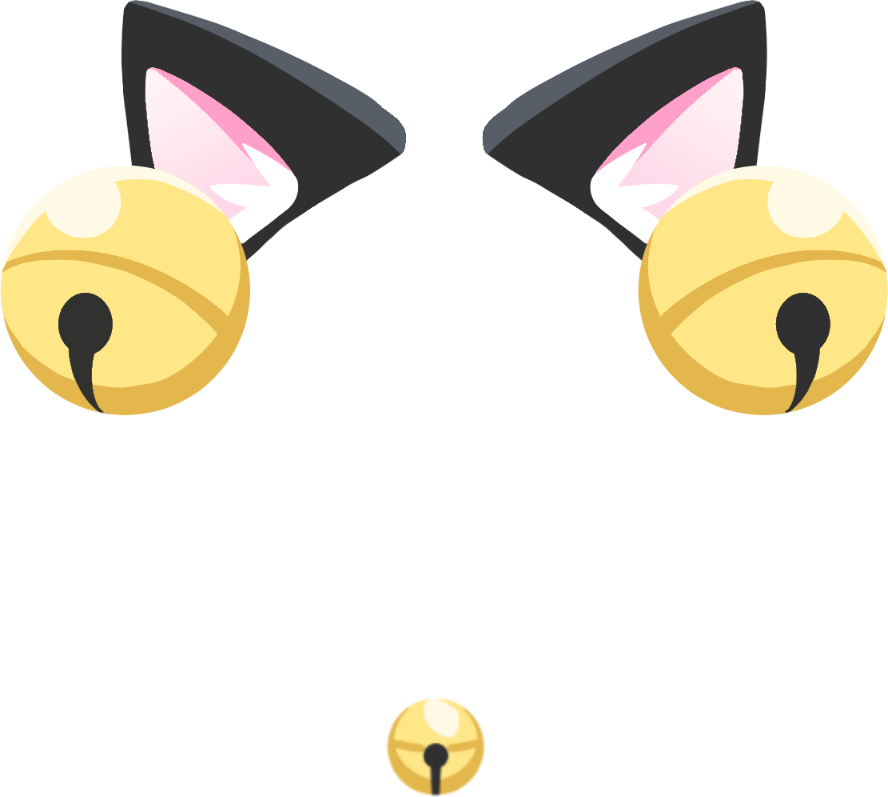
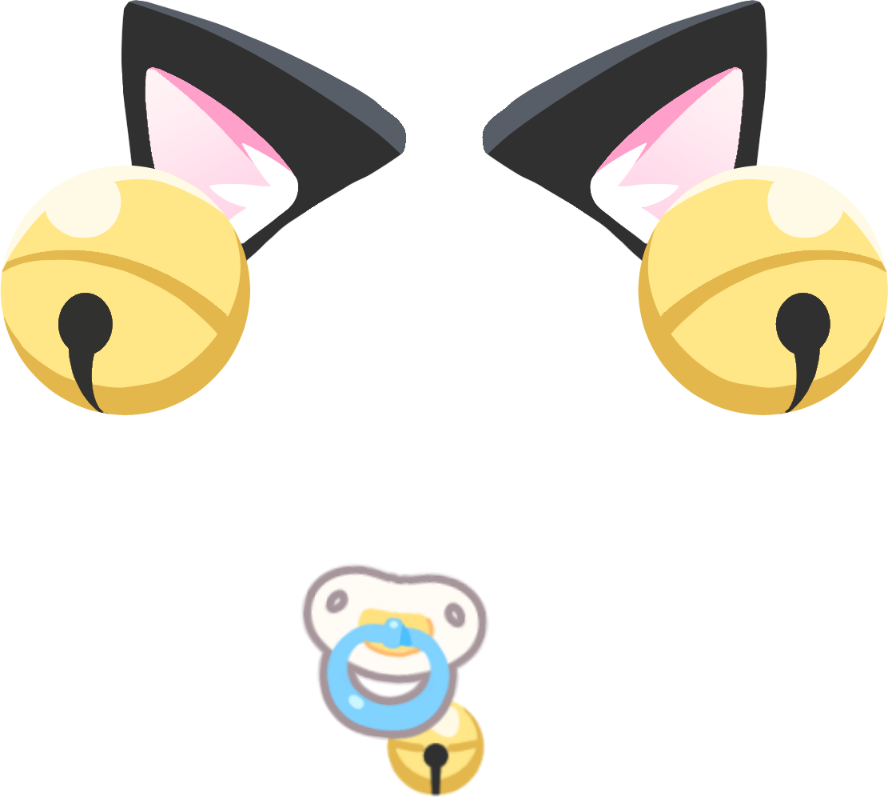
update v1787691690

Changed region(s): [[0.3345, 0.6926, 0.5473, 0.9335]]

diff --git a/mascot.py b/mascot.py
@@ -5534,6 +5534,10 @@ class Mascot:
         self._prop_back_cfg = {}     # 뽑힌 소품의 뒤쪽 조각 움직임 설정
         self._prop_bits = []         # 여러 조각짜리 소품의 곁조각 자리 이름
         self._prop_bit_cfg = {}      # 그 조각마다의 움직임 (지뢰 13)
+        self._prop_gname = ""        # 지금 소품의 이름 (고양이·만두…)
+        self._cat_open_until = 0.0   # 고양이가 눈을 뜨고 있는 시한
+        self._cat_open_next = 0.0    # 다음에 눈을 뜰 시각
+        self._cat_heart_next = 0.0   # 다음 하트가 나올 시각
         # ── 매끈한 캐릭터 (몸만 레이어 창으로) ───────────────────────────
         # **_load_parts 보다 먼저 정해야 한다.** 파츠를 읽으면서 몸 뒤
         # 파츠의 움직임 프레임을 미리 굽는데, 그 캐시에 PIL 을 담을지
@@ -6374,6 +6378,26 @@ class Mascot:
 
     PROP_BIT_MAX = 6         # 한 소품에 붙일 수 있는 곁조각 수
 
+    # 이름(gname)으로 주는 기본 움직임 — 열여덟 캐릭터의 config 를 일일이
+    # 고치지 않아도 새 소품이 살아 움직인다. config 의 prop_motion 이 있으면
+    # 그쪽이 이긴다 (캐릭터별 손맛).
+    #   고양이: prop=꼬리(살랑) · bit2=몸 · bit3=눈감은 얼굴(리듬 까닥) ·
+    #           bit4=눈뜬 얼굴(가만히 빤히 — 움직임 없음)
+    #   만두:   bit2=김(폴폴 오르며 옅어짐)
+    PROP_MOTION_DEF = {
+        "고양이": {
+            "prop": {"motion": "sway", "amp": 8.0, "period": 2.6,
+                     "jitter": 0.18, "pivot": [0.5, 0.9], "steps": 24},
+            "prop_bit3": {"motion": "sway", "amp": 3.6, "period": 1.35,
+                          "jitter": 0.08, "pivot": [0.5, 0.86],
+                          "steps": 20},
+        },
+        "만두": {
+            "prop_bit2": {"motion": "steam", "amp": 1.0, "period": 3.4,
+                          "jitter": 0.12, "rise": 1.1, "steps": 22},
+        },
+    }
+
     def _load_prop_bits(self, pick, s, pil_cache):
         """여러 조각으로 된 특별 소품 (사가 신하나의 미쿠).
 
@@ -6405,7 +6429,10 @@ class Mascot:
         # 다시 매기면 밀린다 (미쿠가 prop16 → prop17 이 됐다). 번호로도
         # 찾아 주므로 옛 config 도 그대로 돈다.
         tab9 = self.cfg.get("prop_motion") or {}
-        mo_all = tab9.get(ent.get("gname") or "") or tab9.get(pick) or {}
+        gname9 = str(ent.get("gname") or "")
+        self._prop_gname = gname9        # 그리는 쪽(고양이 눈)이 본다
+        mo_all = (tab9.get(gname9) or tab9.get(pick)
+                  or self.PROP_MOTION_DEF.get(gname9) or {})
         self._prop_bit_cfg["prop"] = mo_all.get("prop") or {}
         for j9, key9 in enumerate(keys):
             nm9 = "prop_bit%d" % (j9 + 2)
@@ -7478,6 +7505,34 @@ class Mascot:
             im = Image.new("RGBA", pil.size, (0, 0, 0, 0))
             im.alpha_composite(pil.resize((w, pil.height), Image.LANCZOS),
                                ((pil.width - w) // 2, 0))
+        elif mode == "steam":
+            # 김 — **제자리에서 위로 폴폴** 오르며 옅어졌다 다시 차오른다.
+            # 한 주기: 아래(진하게) → 위로 오르며 옅어짐 → 사라지고 다시.
+            # sin 이 아니라 톱니(주기 진행률)를 쓴다 — 김은 왕복하지 않는다.
+            t2 = (k / float(steps)) % 1.0
+            rise = pil.height * float(mo.get("rise", 0.9))
+            pad = int(math.ceil(rise)) + 2
+            # 처음엔 스르륵 나타나고(0→0.15) 끝에서 길게 사라진다
+            if t2 < 0.15:
+                a2 = t2 / 0.15
+            else:
+                a2 = max(0.0, 1.0 - (t2 - 0.15) / 0.85)
+            # 반투명 흰 김 (요청). 매끈 레이어에서는 알파 그대로 나오고,
+            # 색상키 경로에서는 키 색과 섞여 옅은 회색 김이 된다 — 김은
+            # 원래 회끄무레해 그 모습도 자연스럽다 (지뢰 65 의 얼룩과
+            # 달리 면적이 작고 늘 움직여 테로 보이지 않는다).
+            a2 *= 0.42 + 0.30 * (1.0 - t2)
+            fade = pil.copy()
+            fade.putalpha(fade.getchannel("A").point(
+                lambda v, m9=a2: int(v * m9)))
+            wob = math.sin(t2 * 2 * math.pi) * pil.width * 0.06
+            base = Image.new("RGBA",
+                             (pil.width + 2 * pad, pil.height + 2 * pad),
+                             (0, 0, 0, 0))
+            base.alpha_composite(fade,
+                                 (pad + int(round(wob)),
+                                  pad - int(round(rise * t2))))
+            im = base
         else:
             return None
         # 움직이는 조각이 넷이 되면서 12장 × 4 = 48장이라 상한 40 을 계속
@@ -12725,7 +12780,21 @@ class Mascot:
             hy = wy = round(h * 1.5)
             cloud = self._fx_cloud(hy)
 
+            # ③-2 작은 하트 — 고양이 소품 곁에 뿅뿅 (요청). 반 크기라
+            # 캐릭터 하트와 확실히 구분된다.
+            hs = round(h * 0.52)
+            whs = max(6, round(hs * 0.92))
+
+            def drawhs(d, c="#ff9fbc"):
+                r = whs * 0.26
+                d.ellipse([0, hs * 0.14, 2 * r, hs * 0.14 + 2 * r], fill=c)
+                d.ellipse([whs - 2 * r, hs * 0.14, whs, hs * 0.14 + 2 * r],
+                          fill=c)
+                d.polygon([(1, hs * 0.34), (whs - 1, hs * 0.34),
+                           (whs / 2, hs * 0.97)], fill=c)
+
             groups = {"note": notes, "heart": [(wh, drawh)],
+                      "heart_s": [(whs, drawhs, hs)],
                       "yawn": [(wy, cloud, hy)],
                       "sweat": [(ws, draws)], "question": [(wq, drawq)],
                       "spark": [(wk, drawk)], "bang": [(wb, drawb)]}
@@ -18116,8 +18185,27 @@ class Mascot:
         차례와 움직임은 얼굴 차례에서 하던 것과 똑같이 한다.
         """
         now9 = time.time()
+        # 고양이 소품 — 눈감은 얼굴(bit3)이 기본, 가끔 눈을 뜨고(bit4)
+        # 빤히 바라본다 (요청). 두 얼굴은 같은 자리라 하나만 그린다.
+        skip9 = None
+        if self._prop_gname == "고양이" and self.has.get("prop_bit4"):
+            if now9 < self._cat_open_until:
+                skip9 = "prop_bit3"          # 눈 뜸 — 가만히 응시
+            else:
+                skip9 = "prop_bit4"
+                if not self._cat_open_next:      # 켠 직후 — 예약만
+                    self._cat_open_next = now9 + random.uniform(8.0, 18.0)
+                elif now9 >= self._cat_open_next:
+                    self._cat_open_until = now9 + random.uniform(3.0, 5.5)
+                    self._cat_open_next = (self._cat_open_until
+                                           + random.uniform(14.0, 30.0))
+                # 눈을 감고 있는 동안 반투명 작은 하트가 뿅뿅 (요청)
+                if now9 >= self._cat_heart_next:
+                    self._cat_heart_next = now9 + random.uniform(1.4, 2.4)
+                    self._safe("cat_heart", self._cat_heart, now9, yo)
         for name in (self.layout.get("overlays") or []):
-            if not name.startswith("prop") or not self.has.get(name):
+            if (not name.startswith("prop") or not self.has.get(name)
+                    or name == skip9):
                 continue
             mo9 = (getattr(self, "_prop_bit_cfg", None) or {}).get(name)
             if mo9 and mo9.get("motion"):
@@ -18125,6 +18213,47 @@ class Mascot:
                 continue
             ox, oy_ = self._pos(name)
             self._put(name, ox, oy_ + yo)
+
+    def _cat_heart(self, now, yo):
+        """고양이 소품 곁에서 뿅 하고 오르는 작은 하트.
+
+        기존 하트 파티클(_spawn_note 의 heart)을 그대로 쓰되, 자리만
+        고양이(몸 조각) 위로 잡는다 — FxLayer 가 있으면 부드럽게 옅어지고
+        (반투명, 요청) 없으면 픽셀 솎기로 물러난다 (기존과 같은 길).
+        """
+        lvs = (self.fx_imgs.get("heart_s") or self.fx_imgs.get("heart")
+               or self.fx_imgs.get("note"))
+        if not lvs:
+            return
+        body9 = ("prop_bit2" if self.has.get("prop_bit2") else "prop")
+        try:
+            bx9, by9 = self._pos(body9)
+            ent9 = self.layout.get(body9) or {}
+            sz9 = ent9.get("size") or [40, 40]
+            w9 = float(sz9[0]) * self.s
+            h9 = float(sz9[1]) * self.s
+        except Exception:
+            return
+        # **주변을 번갈아** — 왼쪽·오른쪽·위를 돌아가며, 한 번에 두세 개를
+        # 박자를 어긋내 뿅뿅 (요청: 작게 여러 개).
+        side9 = getattr(self, "_cat_heart_side", 0)
+        self._cat_heart_side = (side9 + 1) % 3
+        for j9 in range(random.randint(2, 3)):
+            if side9 == 0:              # 왼쪽 곁
+                x = bx9 - w9 * random.uniform(0.05, 0.28)
+                y = by9 + yo + h9 * random.uniform(0.1, 0.7)
+            elif side9 == 1:            # 오른쪽 곁
+                x = bx9 + w9 * (1.0 + random.uniform(0.05, 0.28))
+                y = by9 + yo + h9 * random.uniform(0.1, 0.7)
+            else:                       # 머리 위
+                x = bx9 + w9 * random.uniform(0.2, 0.8)
+                y = by9 + yo - h9 * random.uniform(0.0, 0.25)
+            # 자리·속도·수명을 제각각 주면 같은 박자에 태어나도 흩어져
+            # '번갈아 뿅뿅'으로 보인다.
+            life = random.randint(24, 38)
+            self.notes.append([x, y, random.uniform(-0.35, 0.35),
+                               random.uniform(0.7, 1.15),
+                               random.choice(lvs), life, life])
 
     def _draw_pen_hand(self):
         """펜 쥔 손. 퀸시처럼 펜이 맨 위 레이어인 캐릭터는 머리를 그린 뒤 호출.
